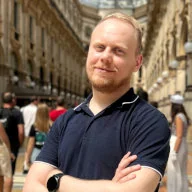
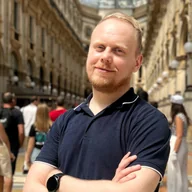
Restore supplied high-resolution portraits with responsive WebP output (#26)

diff --git a/tests/site.spec.ts b/tests/site.spec.ts
@@ -1,4 +1,27 @@
-import { test, expect } from '@playwright/test';
+import { test, expect, type Locator } from '@playwright/test';
+
+async function expectPortraitResource(portrait: Locator, index: number, density: number) {
+  await portrait.scrollIntoViewIfNeeded();
+  await expect(portrait).toBeVisible();
+  await expect.poll(() => portrait.evaluate((image: HTMLImageElement) => image.complete && image.naturalWidth > 0)).toBe(true);
+  const resource = await portrait.evaluate(async (image: HTMLImageElement) => {
+    // naturalWidth on a srcset image is density-corrected. Decode the chosen
+    // file separately to check its actual pixel dimensions.
+    const selected = new Image();
+    selected.src = image.currentSrc;
+    await selected.decode();
+    return { url: image.currentSrc, width: selected.naturalWidth, height: selected.naturalHeight };
+  });
+  const width = Math.min(3, Math.ceil(density)) * 192;
+  const suffix = width === 192 ? '' : `-${width}`;
+  expect(new URL(resource.url).pathname).toBe(`/images/profile${index + 1}${suffix}.webp`);
+  expect(resource.width).toBe(width);
+  expect(resource.height).toBe(width);
+  const response = await portrait.page().request.get(resource.url);
+  expect(response.status()).toBe(200);
+  expect(response.headers()['content-type']).toContain('image/webp');
+  expect((await response.body()).length).toBeLessThan(50 * 1024);
+}
 
 for (const language of ['sv', 'en']) {
   test(`${language}: content, navigation and image loading`, async ({ page }) => {
@@ -24,9 +47,9 @@ for (const language of ['sv', 'en']) {
     await expect(portraits).toHaveCount(2);
     for (const [index, portrait] of (await portraits.all()).entries()) {
       await expect(portrait).toHaveAttribute('src', `/images/profile${index + 1}.webp`);
-      await portrait.scrollIntoViewIfNeeded();
-      await expect(portrait).toBeVisible();
-      await expect.poll(() => portrait.evaluate((image: HTMLImageElement) => image.naturalWidth)).toBeGreaterThan(0);
+      await expect(portrait).toHaveAttribute('sizes', '192px');
+      await expect(portrait).toHaveAttribute('srcset', `/images/profile${index + 1}.webp 192w, /images/profile${index + 1}-384.webp 384w, /images/profile${index + 1}-576.webp 576w`);
+      await expectPortraitResource(portrait, index, await page.evaluate(() => window.devicePixelRatio));
     }
     const logo = page.getByRole('img', { name: /Carmenta/ });
     await expect(logo).toHaveCSS('filter', 'none');
@@ -132,4 +155,20 @@ test('saved theme applies before the stylesheet finishes loading', async ({ page
   }
   await page.waitForLoadState('load');
   await expect(page.locator('#theme-preference')).toHaveValue('dark');
+});
+
+
+test('portraits choose appropriately sized images on 2x screens', async ({ browser, baseURL }) => {
+  const context = await browser.newContext({ baseURL, viewport: { width: 390, height: 844 }, deviceScaleFactor: 2 });
+  try {
+    const page = await context.newPage();
+    await page.goto('/en/');
+    const portraits = page.locator('img[src^="/images/profile"]');
+    await expect(portraits).toHaveCount(2);
+    for (const [index, portrait] of (await portraits.all()).entries()) {
+      await expectPortraitResource(portrait, index, 2);
+    }
+  } finally {
+    await context.close();
+  }
 });

diff --git a/docs/index.html b/docs/index.html
@@ -121,7 +121,7 @@
     <div class="max-w-4xl mx-auto">
       <div class="grid md:grid-cols-3 gap-12 items-center">
         <div class="md:col-span-1 text-center">
-          <img src="/images/profile1.webp" width="192" height="192" alt="Profilbild" class="w-48 h-48 rounded-full mx-auto object-cover shadow-lg">
+          <img src="/images/profile1.webp" srcset="/images/profile1.webp 192w, /images/profile1-384.webp 384w, /images/profile1-576.webp 576w" sizes="192px" width="192" height="192" alt="Profilbild" class="w-48 h-48 rounded-full mx-auto object-cover shadow-lg">
         </div>
         <div class="md:col-span-2">
           <h2 class="text-3xl font-bold text-slate-900 dark:text-white mb-8 text-center md:text-left">
@@ -1639,7 +1639,7 @@
     <div class="max-w-4xl mx-auto">
       <div class="grid md:grid-cols-3 gap-12 items-center">
         <div class="md:col-span-1 text-center">
-          <img src="/images/profile2.webp" width="192" height="192" loading="lazy" alt="Profilbild" class="w-48 h-48 rounded-full mx-auto object-cover shadow-lg mb-6">
+          <img src="/images/profile2.webp" srcset="/images/profile2.webp 192w, /images/profile2-384.webp 384w, /images/profile2-576.webp 576w" sizes="192px" width="192" height="192" loading="lazy" alt="Profilbild" class="w-48 h-48 rounded-full mx-auto object-cover shadow-lg mb-6">
         </div>
         <div class="md:col-span-2">
           <h2 class="text-3xl font-bold text-slate-900 dark:text-white mb-8 text-center md:text-left">

diff --git a/docs/en/index.html b/docs/en/index.html
@@ -121,7 +121,7 @@
     <div class="max-w-4xl mx-auto">
       <div class="grid md:grid-cols-3 gap-12 items-center">
         <div class="md:col-span-1 text-center">
-          <img src="/images/profile1.webp" width="192" height="192" alt="Portrait" class="w-48 h-48 rounded-full mx-auto object-cover shadow-lg">
+          <img src="/images/profile1.webp" srcset="/images/profile1.webp 192w, /images/profile1-384.webp 384w, /images/profile1-576.webp 576w" sizes="192px" width="192" height="192" alt="Portrait" class="w-48 h-48 rounded-full mx-auto object-cover shadow-lg">
         </div>
         <div class="md:col-span-2">
           <h2 class="text-3xl font-bold text-slate-900 dark:text-white mb-8 text-center md:text-left">
@@ -1639,7 +1639,7 @@
     <div class="max-w-4xl mx-auto">
       <div class="grid md:grid-cols-3 gap-12 items-center">
         <div class="md:col-span-1 text-center">
-          <img src="/images/profile2.webp" width="192" height="192" loading="lazy" alt="Portrait" class="w-48 h-48 rounded-full mx-auto object-cover shadow-lg mb-6">
+          <img src="/images/profile2.webp" srcset="/images/profile2.webp 192w, /images/profile2-384.webp 384w, /images/profile2-576.webp 576w" sizes="192px" width="192" height="192" loading="lazy" alt="Portrait" class="w-48 h-48 rounded-full mx-auto object-cover shadow-lg mb-6">
         </div>
         <div class="md:col-span-2">
           <h2 class="text-3xl font-bold text-slate-900 dark:text-white mb-8 text-center md:text-left">

diff --git a/scripts/optimize-images.py b/scripts/optimize-images.py
@@ -17,13 +17,27 @@ for source in sorted(images.iterdir()):
         continue
     with Image.open(source) as original:
         image = ImageOps.exif_transpose(original)
-        # Company logos display inside a 264 x 80 CSS-pixel box. Keep up to
-        # twice that resolution for high-density screens; never upscale.
-        if source.stem.startswith("company_logo"):
+        targets = [(source.with_suffix(".webp"), image)]
+        if source.stem.startswith("profile"):
+            # Portraits display at 192 CSS pixels. Supply real detail at up to
+            # 3x density from the same square crop, without upscaling.
+            if image.width != image.height or image.width < 576:
+                raise ValueError(f"{source.name} must be square and at least 576px wide")
+            targets = []
+            for width in (192, 384, 576):
+                portrait = image.copy()
+                portrait.thumbnail((width, width), Image.Resampling.LANCZOS)
+                suffix = "" if width == 192 else f"-{width}"
+                target = source.with_name(f"{source.stem}{suffix}.webp")
+                targets.append((target, portrait))
+        elif source.stem.startswith("company_logo"):
+            # Company logos display inside a 264 x 80 CSS-pixel box. Keep up to
+            # twice that resolution for high-density screens; never upscale.
             image.thumbnail((528, 160), Image.Resampling.LANCZOS)
-        target = source.with_suffix(".webp")
-        image.save(target, "WEBP", quality=85, method=6)
-    before, after = source.stat().st_size, target.stat().st_size
+        for target, derivative in targets:
+            derivative.save(target, "WEBP", quality=85, method=6)
+    before = source.stat().st_size
+    after = sum(target.stat().st_size for target, _ in targets)
     original_total += before
     optimized_total += after
     print(f"{source.name}: {before:,} -> {after:,} bytes")

diff --git a/README.md b/README.md
@@ -62,6 +62,9 @@ python3 -m venv /tmp/kalyna-image-tools
 MIX_ENV=prod mix build
 ```
 
+Portrait sources remain JPEGs and must be square and at least 576 × 576 pixels.
+The script generates 192, 384, and 576 pixel WebP versions; the homepage uses
+`srcset` to choose a version for its 192-pixel portrait boxes on 1×, 2×, and 3× screens.
 Company logos retain up to twice their displayed resolution (528 × 160 pixels),
 without upscaling smaller originals. SVGs and social preview images are unchanged.
 The root layout embeds `assets/js/theme.js` at build time so the saved theme applies
